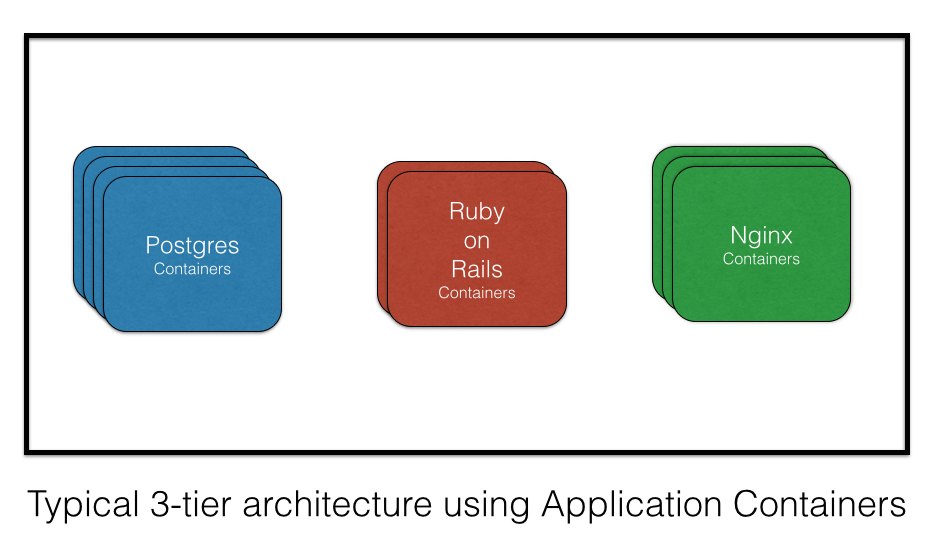
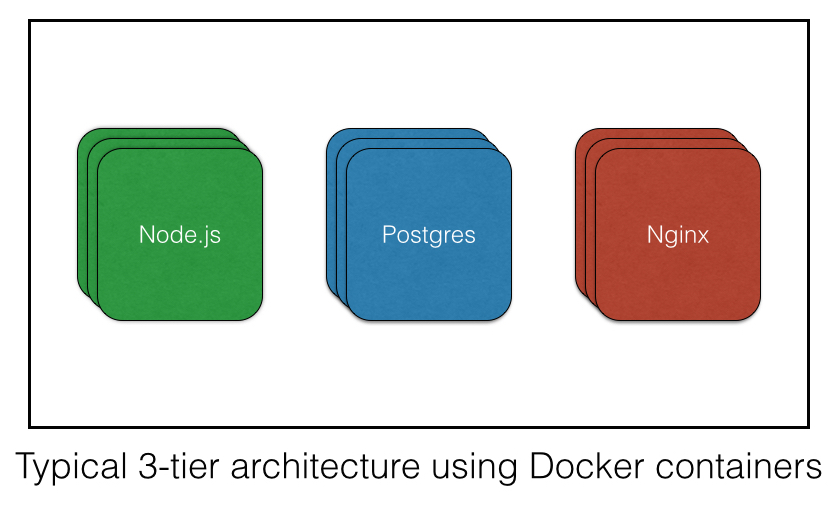
Make changes based on Badri's PR

diff --git a/_drafts/2015-04-01-app-vs-os-containers.md b/_drafts/2015-04-01-app-vs-os-containers.md
@@ -5,13 +5,13 @@ date:   2015-04-01
 author: Akshay Karle
 ---
 
-Docker has recently gained a lot of popularity, and has been talked about at many recent tech conferences. Everyone wants to know how to use Docker. There are quite a few misconceptions about containers in general, the different container technologies out there, and why Docker remains so popular. In this blog, I would like to define what containers are, what Docker offers, what differentiates it from other technologies such as LXC, OpenVZ, etc and some things to keep in mind while using it.
+Docker has recently gained a lot of popularity, and has been talked about at many recent tech conferences. Everyone wants to know how to use Docker. But there are quite a few misconceptions about containers in general, the different container technologies out there, and why Docker remains so popular. In this blog, I would like to clear some these misconceptions by trying to define what containers are, what Docker offers, what differentiates it from other technologies such as LXC, OpenVZ, etc and some things to keep in mind while using it.
 
 # What are containers?
 
-A container isolates its processes from the different resources of the host system and from other containers while providing an operating system-like environment to those processes. For all practical purposes you can think of containers as VMs. You can install and run different packages, libraries, etc., just as you would on any OS.
+A container is a light-weight Virtual Machine(VM) which divides and isolates the different resources of the host system such as the disk-space, memory, processors, etc amongst the containers. For all practical purposes you can think of containers as VMs. You can install and run different packages, libraries, etc., just as you would on any OS. Just as a VM, anything running inside a container can only see resources that have been assigned to that container.
 
-The difference between a container and a VM is that all containers share the same kernel of the host system. This gives them the advantage of being very fast with almost [0 performance overhead](https://en.wikipedia.org/wiki/Operating-system-level_virtualization#Overhead) compared with VMs.
+The difference between a container and a full-fledged VM is that all containers share the same kernel of the host system. This gives them the advantage of being very fast with almost [0 performance overhead](https://en.wikipedia.org/wiki/Operating-system-level_virtualization#Overhead) compared with VMs.
 
 There have been a number of [container technologies](https://en.wikipedia.org/wiki/Operating-system-level_virtualization#Implementations) in the past which provide operating system containers. But very recently, one particular container technology -- [Docker](https://www.Docker.com/) -- has been gaining significant popularity in the Dev and Sys-Admin communities. So, what is Docker and what makes it so special?
 
@@ -27,9 +27,11 @@ The idea behind Docker is to package and deploy applications as containers. As a
 
 The idea behind application containers is that you create different containers for each of the components in your application. This approach works especially well when you want to deploy a distributed, multi-component system using the microservice architecture. The development team gets the freedom to package their own applications as a single deployable container, the operations teams gets the freedom of deploying the container on the operating system of their choice as well as the ability to scale both horizontally and vertically the different applications. The end state is a system that has different applications and services each running as a container which then talk to each other using the APIs and protocols that each of them supports.
 
-In order to explain what it means to run an application container using Docker, let's take a simple example of a three-tier architecture in web development which has a `PostgreSQL` data tier, a `Ruby on Rails` application tier and an `Nginx` as the load balancer tier.
+In order to explain what it means to run an application container using Docker, let's take a simple example of a three-tier architecture in web development which has a `PostgreSQL` data tier, a `Node.js` application tier and an `Nginx` as the load balancer tier.
 
-In the simplest cases, using the traditional approach, one would put the database, the Rails app and nginx on the same machine.
+In the simplest cases, using the traditional approach, one would put the database, the Node.js app and Nginx on the same machine.
+
+![simplest 3-tier architecture](/assets/images/screenshots/snap-containers/simplest-3-tier-architecture.jpg){: .screenshot .big}
 
 Deploying this architecture as Docker containers would involve building a container image for each of the tiers. You then deploy these images independently, creating containers of varying sizes and capacity according to your needs.
 
@@ -51,6 +53,8 @@ Init (PID 1) is a process is a direct or indirect ancestor of all other processe
 
 Any `RUN` commands you specify in the [Dockerfile](https://docs.docker.com/reference/builder/) creates a new [layer](https://docs.docker.com/terms/layer/) for the container. At the end when you run your container, Docker combines these layers and runs your containers. Layering helps Docker to reduce duplication and increases the re-use. This is very helpful when you want to create different containers for your components, as you can start with a base image that is common for all the components and then just add layers that are specific to your component. Layering also helps when you want to rollback your changes as you can simply switch to the old layers and there is almost no overhead involved in doing so.
 
+<br/>
+
 Given all these points, let's have a look at how application containers are different from OS containers provided by LXC, OpenVZ, etc.
 
 ![lxc vs. docker](/assets/images/screenshots/snap-containers/lxc-vs-docker.jpg){: .screenshot .big}
@@ -59,9 +63,9 @@ So in general when you want to package and distribute your application as compon
 
 # Security of Docker containers
 
-# Inability to create/manage containers as non-root users
+### Inability to create/manage containers as non-root users
 
-The Docker daemon runs as root. Even the Docker containers created need to be created by either root or by a user with sudo privileges to issue Docker daemon commands. This may be safe when running trusted applications, but it may cause problems as Docker still doesn't support user namespaces. Following is a quote from the [Docker security documentation](https://docs.docker.com/articles/security/):
+The Docker daemon runs as root. Even the Docker containers created need to be created by either root or by a user with sudo privileges to issue Docker daemon commands. This may be safe when running trusted applications, but it may cause problems if you run any untrusted applications running as root since Docker still doesn't support user namespaces. Following is a quote from the [Docker security documentation](https://docs.docker.com/articles/security/):
 
 > Today, Docker does not directly support user namespaces, but they may still be utilized by Docker containers on supported kernels, by directly using the clone syscall, or utilizing the 'unshare' utility.
 
@@ -71,9 +75,10 @@ User namespaces gives the ability to run processes and access filesystems as a r
 
 You can definitely work on hardening your container security by using systems like SELinux and AppArmor with Docker. These tools allow whitelisting of resources and capabilities that a process/user needs process. This whitelisting technique while works great for running your application, it is not so great when handed to users who can run arbitrary commands as root.
 
-
-![unprivileged containers](/assets/images/screenshots/snap-containers/unprivileged-containers.jpg){: .screenshot .big}
+<br/>
 
 In such cases when you want to run untrusted commands running as the root user in the container, a better approach is to run unprivileged containers. Unprivileged containers are created and managed by non-root users and hence are considered relatively safer because even when a process breaks out of the container, it only has privileges as much as the non-root host user. Unfortunately, only LXC supports unprivileged containers as of now.
+
+![unprivileged containers](/assets/images/screenshots/snap-containers/unprivileged-containers.jpg){: .screenshot .big}
 
 In the future, if Docker moves to support unprivileged containers, it may have wider applications. But for now, due to the security concerns, Docker's OS-like behavior, and other aspects, it is ideal for mass adoption as an application container mechanism for deployment into environments you control. It is not, in general, ready to serve as the basis for for a SaaS provider's infrastructure or those who rely on user namespacing.
